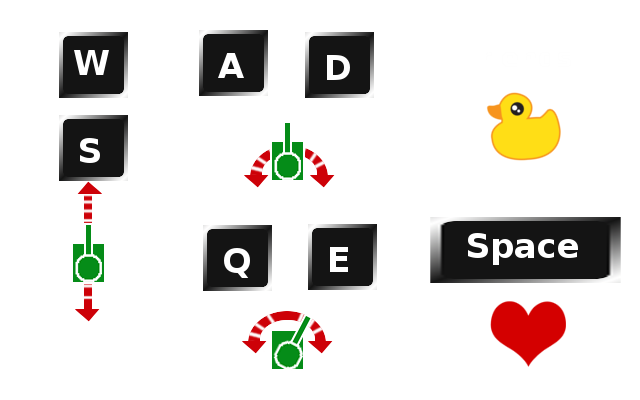
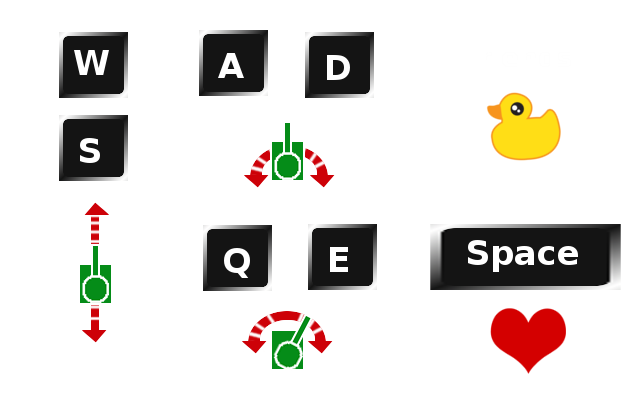
P3: Cooler layout for instructions. This closes #16

Changed region(s): [[0.6562, 0.54, 0.9688, 0.93], [0.0938, 0.45, 0.1875, 0.87], [0.875, 0.78, 0.9062, 0.81]]

diff --git a/practica_3/tanks/script.js b/practica_3/tanks/script.js
@@ -102,7 +102,7 @@ function createMenus(){
         {
             headingText: 'Instrucciones',
             image: {
-                src: '/home/luvo/Downloads/kitten.jpg',
+                src: '../tanks/imgs/Instrucciones.png',
                 title: 'Instrucciones',
                 alt: 'Instrucciones',
             },
